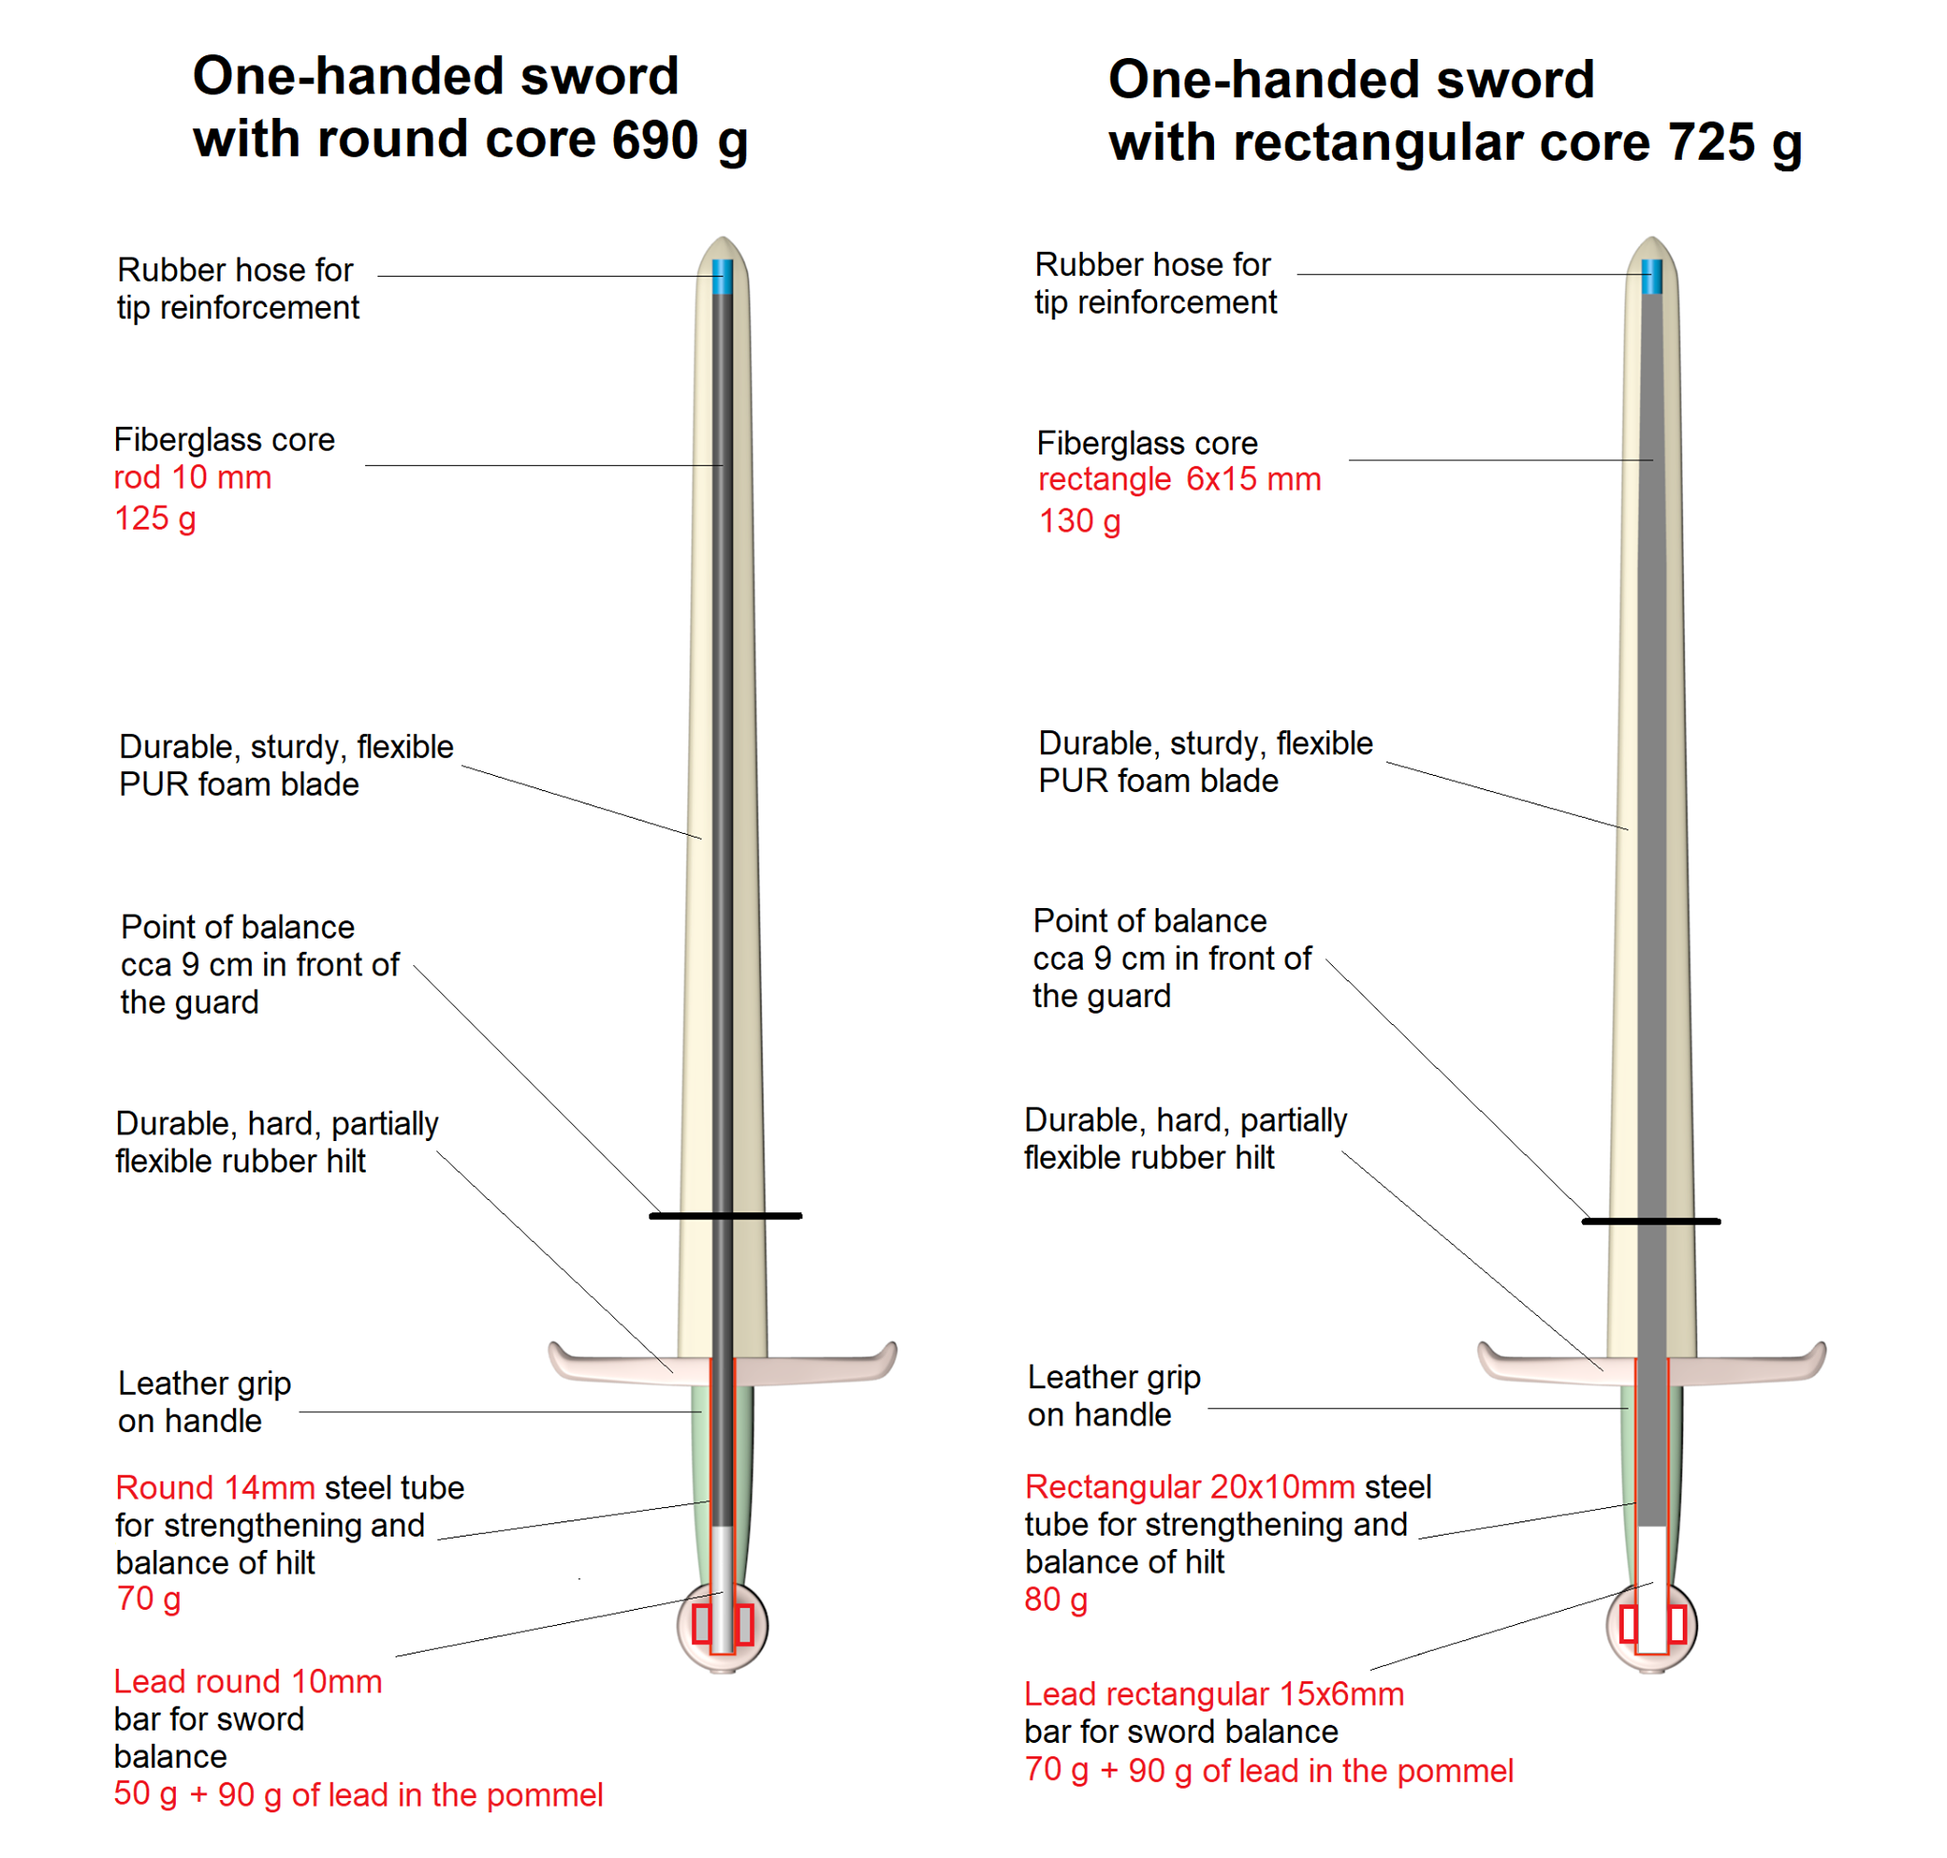
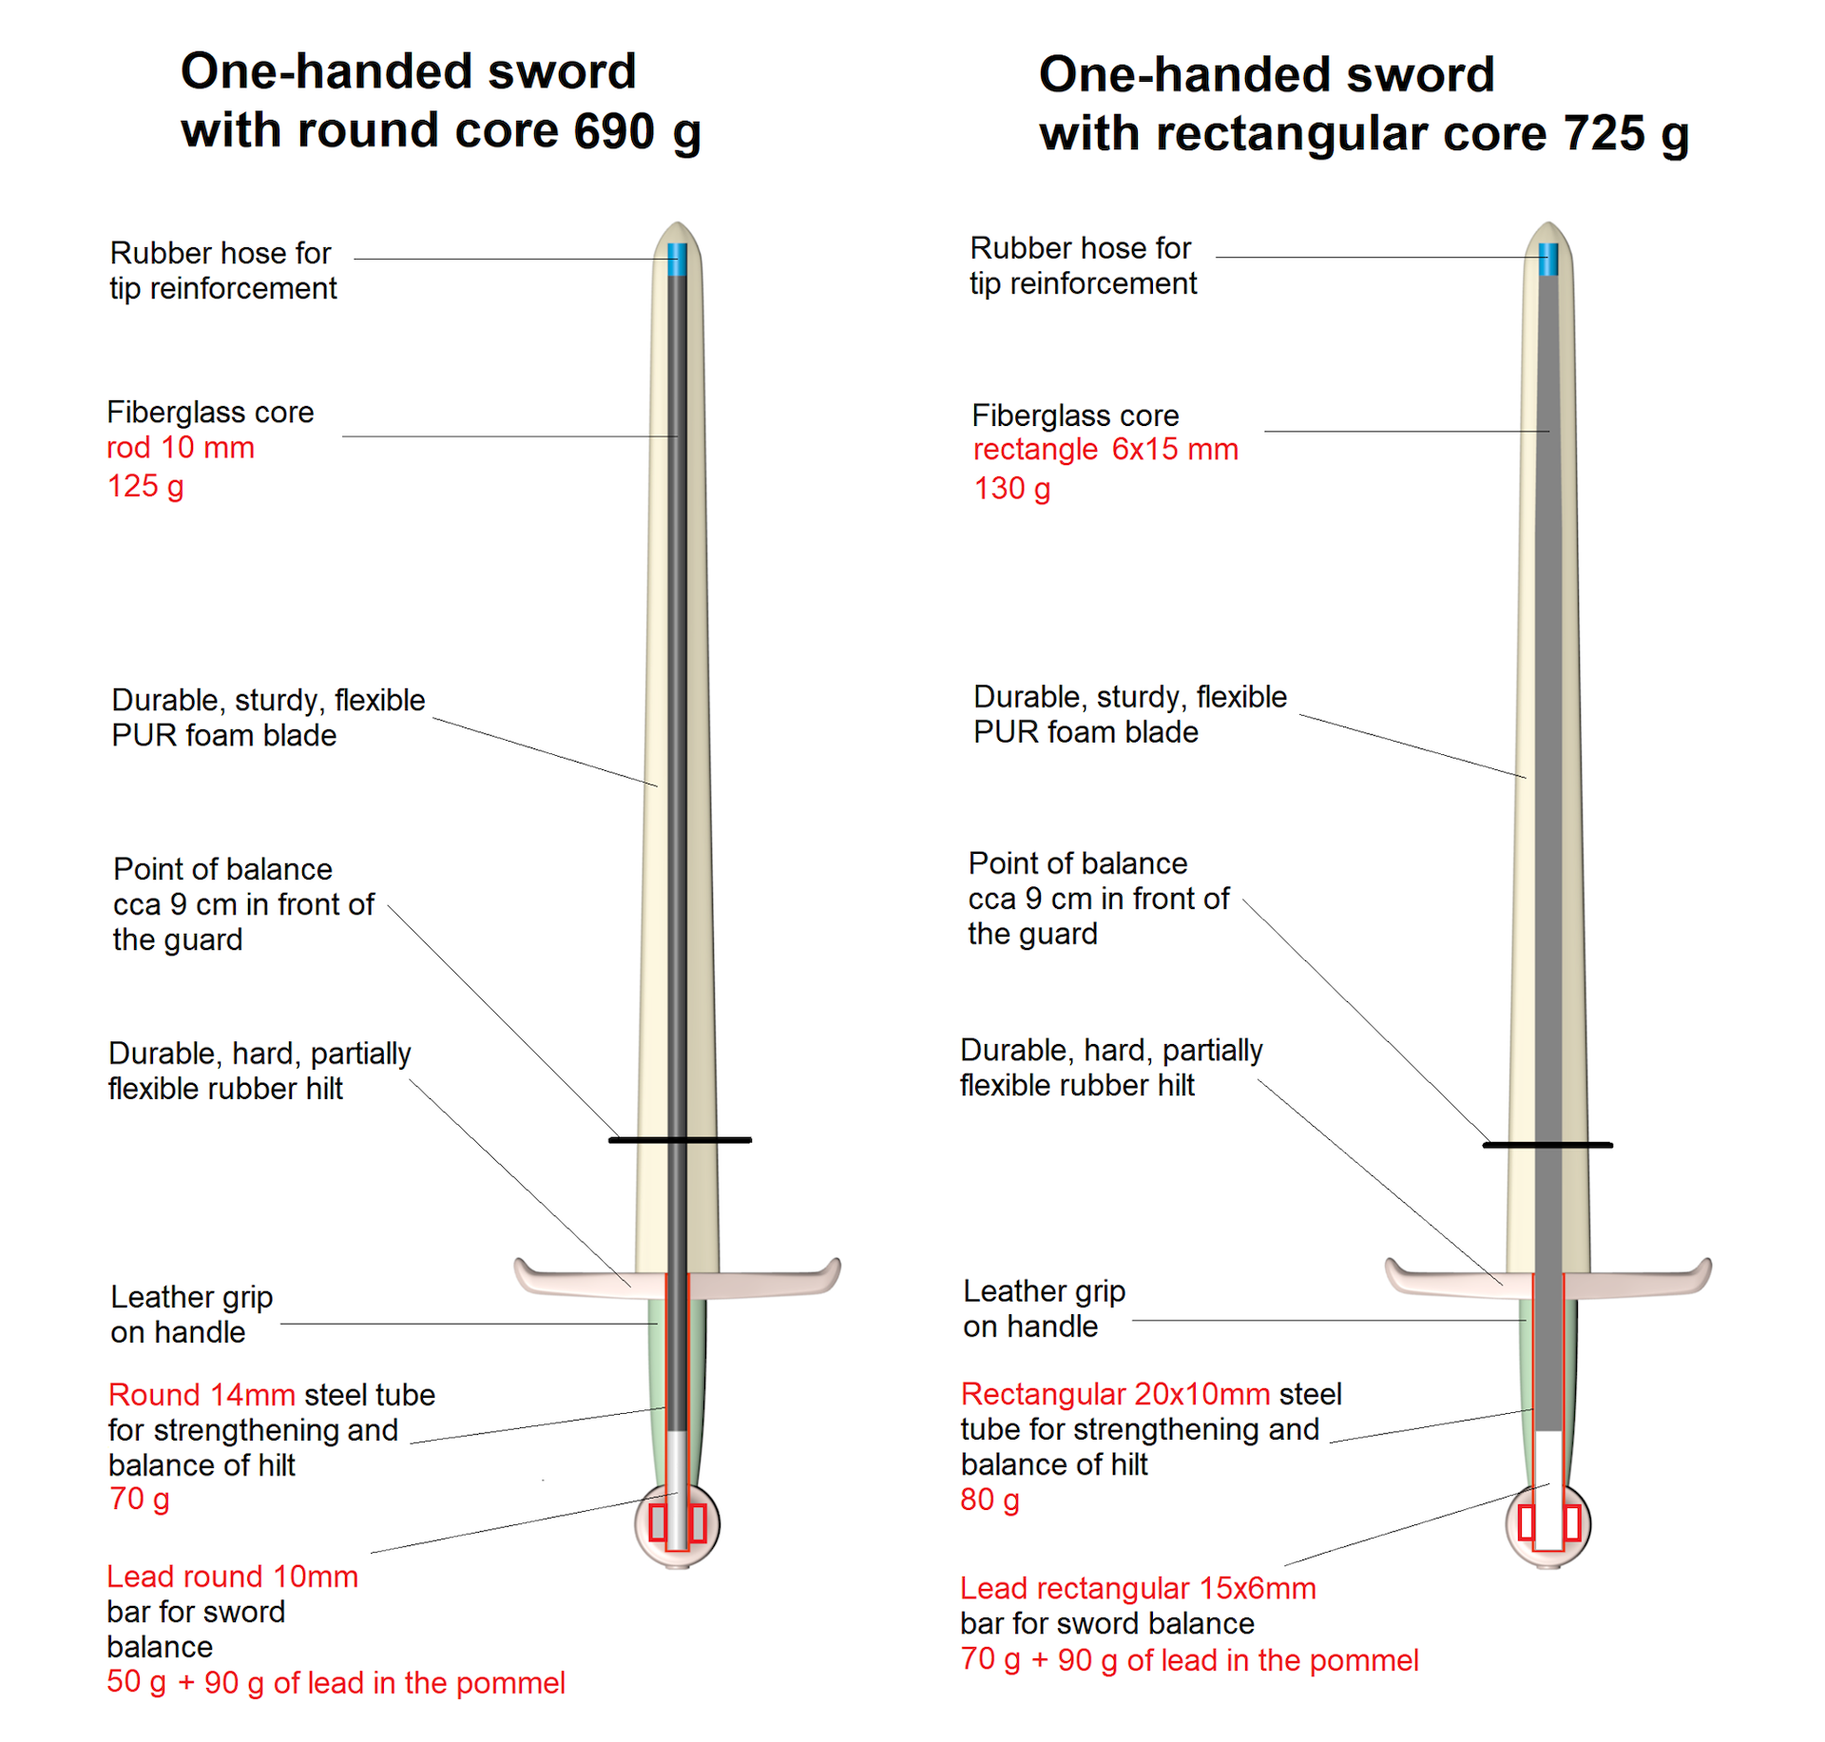
patch 2

diff --git a/components/About/About.js b/components/About/About.js
@@ -103,17 +103,29 @@ export const About = ({ active, setActive }) => {
       <h3>Round or rectangular fiberglass core?</h3>
       <p>
         When ordering, you must choose whether you want a round 10mm core or a
-        15x6mm rectangular core. Round core: the sword is generally about 50 g
-        lighter. The round core bends a little and vibrates in the same way in
-        all directions, even in the direction of the blow. This core has no
-        weakness in any direction where is a greater risk of breakage.
-        Rectangular core: the sword is generally about 50 g heavier. The
-        rectangle behaves more like an actual sword blade. It does not bend and
-        vibrates only minimally in the direction of the cut; on the contrary,
-        when you hit flat, it bends and vibrates even more than the round core.
-        With strong or frequent blows from the flat side of the blade, there is
-        a more considerable risk of damaging the rectangular core than with a
-        round one. The rectangular core is better for fencing.
+        15x6mm rectangular core.
+        <ul>
+          <li>
+            <b>Round core:</b>&nbsp;the sword is generally about 50 g lighter.
+            The round core bends a little and vibrates in the same way in all
+            directions, even in the direction of the blow. This core has no
+            weakness in any direction where is a greater risk of breakage.
+            <br />
+            <br />
+          </li>
+          <li>
+            <b>Rectangular core:</b>&nbsp;the sword is generally about 50 g
+            heavier. The rectangle behaves more like an actual sword blade. It
+            does not bend and vibrates only minimally in the direction of the
+            cut; on the contrary, when you hit flat, it bends and vibrates even
+            more than the round core. With strong or frequent blows from the
+            flat side of the blade, there is a more considerable risk of
+            damaging the rectangular core than with a round one. The rectangular
+            core is better for fencing.A round core (10) is narrower than a
+            rectangular core (15x6 or 16x8), so the foam of the blade may be
+            slightly softer than that of a rectangular core.
+          </li>
+        </ul>
       </p>
       <p>
         It is also possible to choose a heavier and more durable 16x8mm
@@ -123,7 +135,7 @@ export const About = ({ active, setActive }) => {
         increase. Suitable if you want to use the weapon primarily for hard
         battles in armour. Such as the Czech "kekel".
       </p>
-      <Image src="/images/construction.png" width={2048} height={1954} />
+      <Image src="/images/construction2.jpg" width={1920} height={1832} />
       <h3>How to take care of weapons and repair them?</h3>
       <p>
         All double-edged and single-edged sword blades are made with reinforced
@@ -165,6 +177,7 @@ export const About = ({ active, setActive }) => {
         and we do not think it is safe to stab with any weapon without eye
         protection.
       </p>
+      <Image src="/images/double_edged_blades.jpg" width={1920} height={1280} />
       <h3>
         What weapons can the scabbard be ordered for, and how are they designed?
       </h3>

diff --git a/components/Footer/Footer.js b/components/Footer/Footer.js
@@ -15,7 +15,7 @@ export const Footer = () => {
         <br /><br />IČ: 03386007<br /><br />
         <a href="mailto:info@fakesteel.com">info@fakesteel.com</a>
         <br />
-        +420 722 954 861
+        +420 733 580 425
       </div>
       <div className={styles.social}>
         <div className={styles.icon}>
